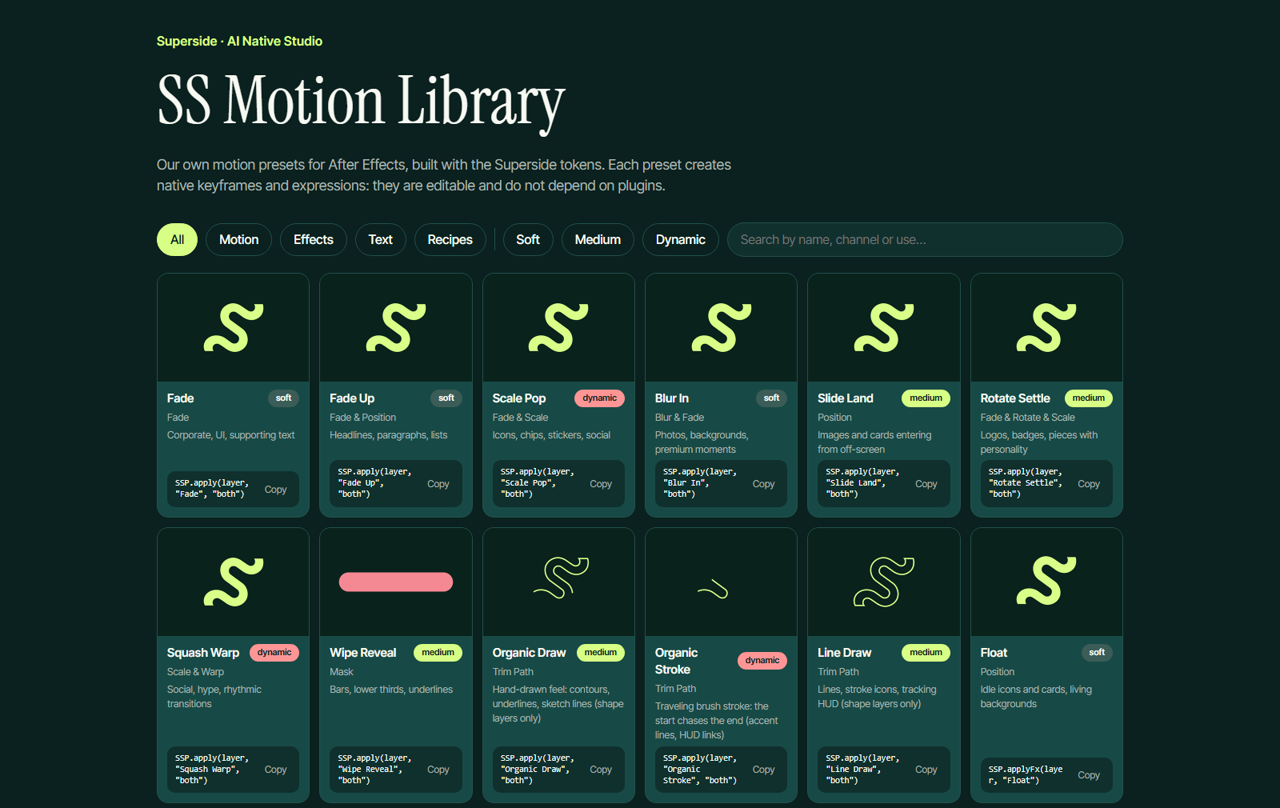
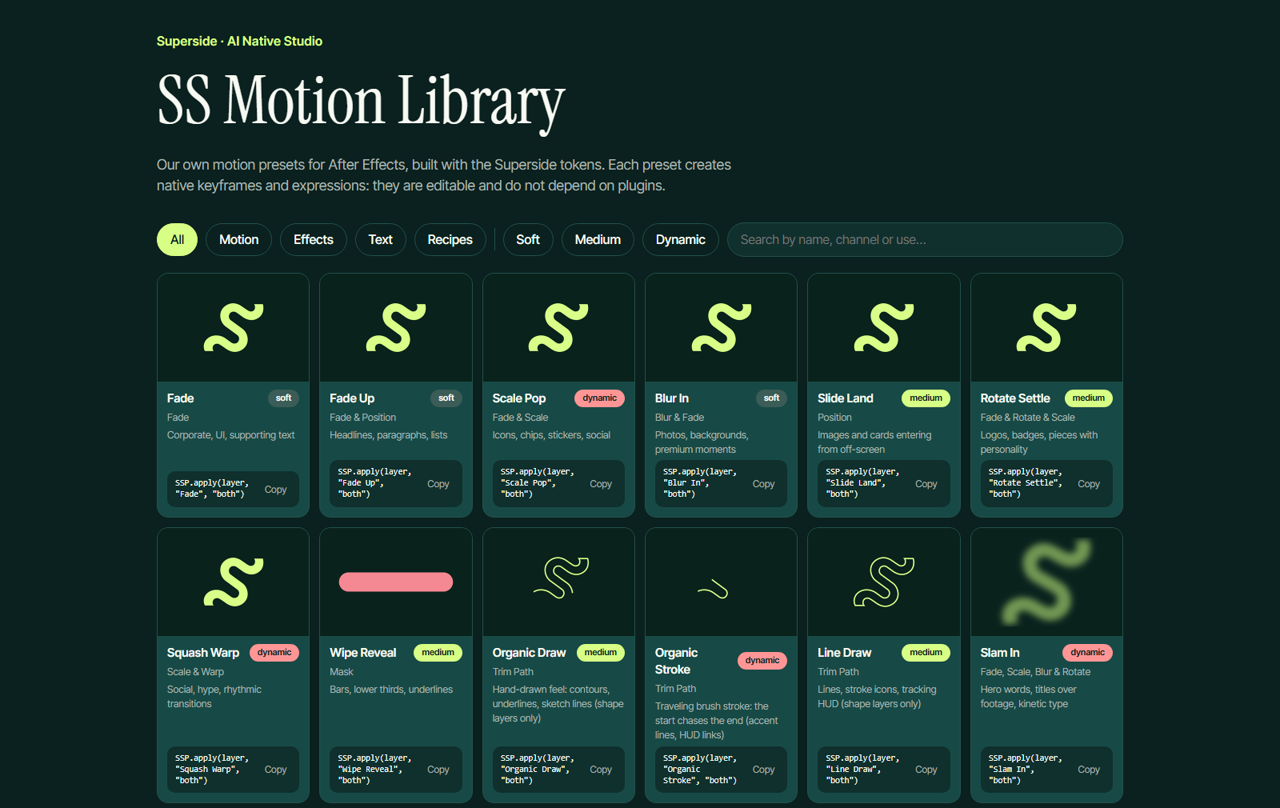
Add 5 presets from the Boardroom reel; library now at 34
- Motion: Slam In (kinetic hero entrance), Punch Zoom (camera punch for footage)
- Text: Words Slam (word-by-word slam with blur and tilt)
- Effects: Breathe (soft idle loop), Holo Flicker (glow, scanlines, flicker)
- Thumbnails, posters, library.json, INDEX.txt, visualizer and README catalog updated
- bridge.sh reopens AE normally when it was closed (AfterFX -s on a closed AE quits)

Changed region(s): [[0.75, 0.7735, 0.875, 0.9901], [0.7812, 0.6498, 0.875, 0.7735]]

diff --git a/library/index.html b/library/index.html
@@ -78,7 +78,7 @@ footer{margin-top:64px;color:var(--muted);font-size:13px}
   <footer>Generated by tools/build_library_html.py · tokens v<span id="tv"></span></footer>
 </div>
 <script>
-const DATA = {"presets": [{"name": "Fade", "slug": "fade", "kind": "motion", "channels": "Fade", "energy": "soft", "use": "Corporate, UI, supporting text", "gif": "gifs/motion/fade.gif", "call": "SSP.apply(layer, \"Fade\", \"both\")"}, {"name": "Fade Up", "slug": "fade-up", "kind": "motion", "channels": "Fade & Position", "energy": "soft", "use": "Headlines, paragraphs, lists", "gif": "gifs/motion/fade-up.gif", "call": "SSP.apply(layer, \"Fade Up\", \"both\")"}, {"name": "Scale Pop", "slug": "scale-pop", "kind": "motion", "channels": "Fade & Scale", "energy": "dynamic", "use": "Icons, chips, stickers, social", "gif": "gifs/motion/scale-pop.gif", "call": "SSP.apply(layer, \"Scale Pop\", \"both\")"}, {"name": "Blur In", "slug": "blur-in", "kind": "motion", "channels": "Blur & Fade", "energy": "soft", "use": "Photos, backgrounds, premium moments", "gif": "gifs/motion/blur-in.gif", "call": "SSP.apply(layer, \"Blur In\", \"both\")"}, {"name": "Slide Land", "slug": "slide-land", "kind": "motion", "channels": "Position", "energy": "medium", "use": "Images and cards entering from off-screen", "gif": "gifs/motion/slide-land.gif", "call": "SSP.apply(layer, \"Slide Land\", \"both\")"}, {"name": "Rotate Settle", "slug": "rotate-settle", "kind": "motion", "channels": "Fade & Rotate & Scale", "energy": "medium", "use": "Logos, badges, pieces with personality", "gif": "gifs/motion/rotate-settle.gif", "call": "SSP.apply(layer, \"Rotate Settle\", \"both\")"}, {"name": "Squash Warp", "slug": "squash-warp", "kind": "motion", "channels": "Scale & Warp", "energy": "dynamic", "use": "Social, hype, rhythmic transitions", "gif": "gifs/motion/squash-warp.gif", "call": "SSP.apply(layer, \"Squash Warp\", \"both\")"}, {"name": "Wipe Reveal", "slug": "wipe-reveal", "kind": "motion", "channels": "Mask", "energy": "medium", "use": "Bars, lower thirds, underlines", "gif": "gifs/motion/wipe-reveal.gif", "call": "SSP.apply(layer, \"Wipe Reveal\", \"both\")"}, {"name": "Organic Draw", "slug": "organic-draw", "kind": "motion", "channels": "Trim Path", "energy": "medium", "use": "Hand-drawn feel: contours, underlines, sketch lines (shape layers only)", "gif": "gifs/motion/organic-draw.gif", "call": "SSP.apply(layer, \"Organic Draw\", \"both\")"}, {"name": "Organic Stroke", "slug": "organic-stroke", "kind": "motion", "channels": "Trim Path", "energy": "dynamic", "use": "Traveling brush stroke: the start chases the end (accent lines, HUD links)", "gif": "gifs/motion/organic-stroke.gif", "call": "SSP.apply(layer, \"Organic Stroke\", \"both\")"}, {"name": "Line Draw", "slug": "line-draw", "kind": "motion", "channels": "Trim Path", "energy": "medium", "use": "Lines, stroke icons, tracking HUD (shape layers only)", "gif": "gifs/motion/line-draw.gif", "call": "SSP.apply(layer, \"Line Draw\", \"both\")"}, {"name": "Float", "slug": "float", "kind": "fx", "channels": "Position", "energy": "soft", "use": "Idle icons and cards, living backgrounds", "gif": "gifs/fx/float.gif", "call": "SSP.applyFx(layer, \"Float\")"}, {"name": "Wiggle Rotate", "slug": "wiggle-rotate", "kind": "fx", "channels": "Rotate", "energy": "medium", "use": "Stickers, illustrations with personality", "gif": "gifs/fx/wiggle-rotate.gif", "call": "SSP.applyFx(layer, \"Wiggle Rotate\")"}, {"name": "Pulse", "slug": "pulse", "kind": "fx", "channels": "Scale", "energy": "medium", "use": "CTAs, buttons, attention grabbers", "gif": "gifs/fx/pulse.gif", "call": "SSP.applyFx(layer, \"Pulse\")"}, {"name": "Jitter", "slug": "jitter", "kind": "fx", "channels": "Position & Rotate", "energy": "dynamic", "use": "Social, glitch, high-energy pieces", "gif": "gifs/fx/jitter.gif", "call": "SSP.applyFx(layer, \"Jitter\")"}, {"name": "Chars Rise", "slug": "chars-rise", "kind": "text", "channels": "Text · Position & Fade (char)", "energy": "medium", "use": "Short headlines, names, kickers", "gif": "gifs/text/chars-rise.gif", "call": "SSP.applyText(textLayer, \"Chars Rise\", \"both\")"}, {"name": "Words Fade Up", "slug": "words-fade-up", "kind": "text", "channels": "Text · Position & Fade (word)", "energy": "soft", "use": "Phrases, captions, quotes", "gif": "gifs/text/words-fade-up.gif", "call": "SSP.applyText(textLayer, \"Words Fade Up\", \"both\")"}, {"name": "Blur Words", "slug": "blur-words", "kind": "text", "channels": "Text · Blur & Fade (word)", "energy": "soft", "use": "Premium moments, calm intros", "gif": "gifs/text/blur-words.gif", "call": "SSP.applyText(textLayer, \"Blur Words\", \"both\")"}, {"name": "Tracking Settle", "slug": "tracking-settle", "kind": "text", "channels": "Text · Tracking & Fade", "energy": "medium", "use": "All-caps titles, typographic logos", "gif": "gifs/text/tracking-settle.gif", "call": "SSP.applyText(textLayer, \"Tracking Settle\", \"both\")"}, {"name": "Chars Pop", "slug": "chars-pop", "kind": "text", "channels": "Text · Scale (char)", "energy": "dynamic", "use": "Social, hype, big numbers", "gif": "gifs/text/chars-pop.gif", "call": "SSP.applyText(textLayer, \"Chars Pop\", \"both\")"}, {"name": "calibration__W3L", "slug": "calibration-w3l", "kind": "recipe", "id": "calibration__W3L", "channels": "position & rotation & scale (loop)", "energy": "dynamic", "use": "AC ref · CALIBRATION", "gif": "gifs/recipe/calibration-w3l.gif", "call": "SSP.applyRecipe(layer, \"calibration__W3L\", \"both\")"}, {"name": "calibration__4LC", "slug": "calibration-4lc", "kind": "recipe", "id": "calibration__4LC", "channels": "position & rotation", "energy": "dynamic", "use": "AC ref · CALIBRATION", "gif": "gifs/recipe/calibration-4lc.gif", "call": "SSP.applyRecipe(layer, \"calibration__4LC\", \"both\")"}, {"name": "calibration__D2T", "slug": "calibration-d2t", "kind": "recipe", "id": "calibration__D2T", "channels": "position (loop)", "energy": "dynamic", "use": "AC ref · CALIBRATION", "gif": "gifs/recipe/calibration-d2t.gif", "call": "SSP.applyRecipe(layer, \"calibration__D2T\", \"both\")"}, {"name": "calibration__2JK", "slug": "calibration-2jk", "kind": "recipe", "id": "calibration__2JK", "channels": "rotation (loop)", "energy": "medium", "use": "AC ref · CALIBRATION", "gif": "gifs/recipe/calibration-2jk.gif", "call": "SSP.applyRecipe(layer, \"calibration__2JK\", \"both\")"}, {"name": "calibration__1DF+UNU", "slug": "calibration-1df-unu", "kind": "recipe", "id": "calibration__1DF+UNU", "channels": "scale (loop)", "energy": "dynamic", "use": "AC ref · CALIBRATION", "gif": "gifs/recipe/calibration-1df-unu.gif", "call": "SSP.applyRecipe(layer, \"calibration__1DF+UNU\", \"both\")"}, {"name": "calibration__X9R", "slug": "calibration-x9r", "kind": "recipe", "id": "calibration__X9R", "channels": "opacity & scale", "energy": "medium", "use": "AC ref · CALIBRATION", "gif": "gifs/recipe/calibration-x9r.gif", "call": "SSP.applyRecipe(layer, \"calibration__X9R\", \"both\")"}, {"name": "calibration__PE6", "slug": "calibration-pe6", "kind": "recipe", "id": "calibration__PE6", "channels": "position", "energy": "medium", "use": "AC ref · CALIBRATION", "gif": "gifs/recipe/calibration-pe6.gif", "call": "SSP.applyRecipe(layer, \"calibration__PE6\", \"both\")"}, {"name": "calibration__4VW", "slug": "calibration-4vw", "kind": "recipe", "id": "calibration__4VW", "channels": "position & scale", "energy": "dynamic", "use": "AC ref · CALIBRATION", "gif": "gifs/recipe/calibration-4vw.gif", "call": "SSP.applyRecipe(layer, \"calibration__4VW\", \"both\")"}, {"name": "calibration__2JV", "slug": "calibration-2jv", "kind": "recipe", "id": "calibration__2JV", "channels": "scale", "energy": "dynamic", "use": "AC ref · CALIBRATION", "gif": "gifs/recipe/calibration-2jv.gif", "call": "SSP.applyRecipe(layer, \"calibration__2JV\", \"both\")"}], "tokens": {"version": "0.2-draft", "fps": 30, "notes": "Superside's own motion tokens. v0.2 calibrated against 6 real transitions sampled in AE (research/calibration_fit.json): entrances 12-17f, typical overshoot ~5%, exits with anticipation.", "durations": [{"name": "Tick", "frames": 4, "ms": 133, "use": "Micro-interactions: clicks, hovers, toggles"}, {"name": "Blink", "frames": 6, "ms": 200, "use": "Opacity fades in/out"}, {"name": "Glide", "frames": 9, "ms": 300, "use": "Short, efficient element moves"}, {"name": "Arrive", "frames": 14, "ms": 467, "use": "Element entrances, elements in motion"}, {"name": "Sweep", "frames": 21, "ms": 700, "use": "Changes covering half the screen or more"}, {"name": "Stage", "frames": 33, "ms": 1100, "use": "Full-screen moments, scrims, transitions"}], "easings": [{"name": "Flat", "bezier": [0, 0, 1, 1], "use": "Opacity and micro-interactions", "ae": {"out": "linear", "in": "linear"}}, {"name": "Land", "bezier": [0.12, 0.9, 0.28, 1], "use": "Entrances from off-screen (long, softer brake)", "ae": {"out": {"influence": 12, "speed_x_avg": 7.5}, "in": {"influence": 72, "speed_x_avg": 0}}}, {"name": "Launch", "bezier": [0.55, 0, 0.9, 0.6], "use": "Exits that chain into another element's entrance", "ae": {"out": {"influence": 55, "speed_x_avg": 0}, "in": {"influence": 10, "speed_x_avg": 4}}}, {"name": "Settle", "bezier": [0.3, 0, 0.1, 1], "use": "General motion and exits that don't chain", "ae": {"out": {"influence": 30, "speed_x_avg": 0}, "in": {"influence": 90, "speed_x_avg": 0}}}, {"name": "Cruise", "bezier": [0.5, 0, 0.15, 1], "use": "Generic, smooth A→B", "ae": {"out": {"influence": 50, "speed_x_avg": 0}, "in": {"influence": 85, "speed_x_avg": 0}}}, {"name": "Pop", "bezier": [0.34, 1.45, 0.64, 1], "use": "Entrances with overshoot/bounce for dynamic pieces", "ae": {"note": "3 keys: 0 → 105% → 100% (Land up to the peak at 60%, Settle back)"}, "overshoot": 0.05}, {"name": "Recoil", "bezier": [0.6, 0, 0.75, -0.4], "use": "Exits with anticipation: pulls back slightly, then leaves (dynamic pieces)", "ae": {"note": "Undershoot: 3 keys (100% → -4% of the travel → target) or an expression; does not fit in 2 AE keys"}}], "ae_conversion": "out.influence = x1*100; out.speed = (y1/x1)*avg; in.influence = (1-x2)*100; in.speed = ((1-y2)/(1-x2))*avg", "calibration": {"entrance_frames_range": [12, 17], "exit_frames_range": [13, 20], "typical_overshoot": 0.05, "observed_beziers": {"in_overshoot": [0.26, 1.42, 0.37, 0.98], "in_soft": [0.26, 0.95, 0.56, 0.99], "in_late": [0.4, 0.79, 0.74, 1.0], "out_ease_in": [0.45, 0.01, 0.75, 0.02], "out_anticipate": [0.62, 0.02, 0.74, -0.42]}}, "fonts": {"display": ["InstrumentSerif-Regular", "Georgia"], "ui": ["InterTight-SemiBold", "InterTight-Bold", "Arial-BoldMT"], "ui_regular": ["InterTight-Regular", "ArialMT"], "note": "PostScript names; the first installed one wins. Font files in assets/fonts (OFL)."}}};
+const DATA = {"presets": [{"name": "Fade", "slug": "fade", "kind": "motion", "channels": "Fade", "energy": "soft", "use": "Corporate, UI, supporting text", "gif": "gifs/motion/fade.gif", "call": "SSP.apply(layer, \"Fade\", \"both\")"}, {"name": "Fade Up", "slug": "fade-up", "kind": "motion", "channels": "Fade & Position", "energy": "soft", "use": "Headlines, paragraphs, lists", "gif": "gifs/motion/fade-up.gif", "call": "SSP.apply(layer, \"Fade Up\", \"both\")"}, {"name": "Scale Pop", "slug": "scale-pop", "kind": "motion", "channels": "Fade & Scale", "energy": "dynamic", "use": "Icons, chips, stickers, social", "gif": "gifs/motion/scale-pop.gif", "call": "SSP.apply(layer, \"Scale Pop\", \"both\")"}, {"name": "Blur In", "slug": "blur-in", "kind": "motion", "channels": "Blur & Fade", "energy": "soft", "use": "Photos, backgrounds, premium moments", "gif": "gifs/motion/blur-in.gif", "call": "SSP.apply(layer, \"Blur In\", \"both\")"}, {"name": "Slide Land", "slug": "slide-land", "kind": "motion", "channels": "Position", "energy": "medium", "use": "Images and cards entering from off-screen", "gif": "gifs/motion/slide-land.gif", "call": "SSP.apply(layer, \"Slide Land\", \"both\")"}, {"name": "Rotate Settle", "slug": "rotate-settle", "kind": "motion", "channels": "Fade & Rotate & Scale", "energy": "medium", "use": "Logos, badges, pieces with personality", "gif": "gifs/motion/rotate-settle.gif", "call": "SSP.apply(layer, \"Rotate Settle\", \"both\")"}, {"name": "Squash Warp", "slug": "squash-warp", "kind": "motion", "channels": "Scale & Warp", "energy": "dynamic", "use": "Social, hype, rhythmic transitions", "gif": "gifs/motion/squash-warp.gif", "call": "SSP.apply(layer, \"Squash Warp\", \"both\")"}, {"name": "Wipe Reveal", "slug": "wipe-reveal", "kind": "motion", "channels": "Mask", "energy": "medium", "use": "Bars, lower thirds, underlines", "gif": "gifs/motion/wipe-reveal.gif", "call": "SSP.apply(layer, \"Wipe Reveal\", \"both\")"}, {"name": "Organic Draw", "slug": "organic-draw", "kind": "motion", "channels": "Trim Path", "energy": "medium", "use": "Hand-drawn feel: contours, underlines, sketch lines (shape layers only)", "gif": "gifs/motion/organic-draw.gif", "call": "SSP.apply(layer, \"Organic Draw\", \"both\")"}, {"name": "Organic Stroke", "slug": "organic-stroke", "kind": "motion", "channels": "Trim Path", "energy": "dynamic", "use": "Traveling brush stroke: the start chases the end (accent lines, HUD links)", "gif": "gifs/motion/organic-stroke.gif", "call": "SSP.apply(layer, \"Organic Stroke\", \"both\")"}, {"name": "Line Draw", "slug": "line-draw", "kind": "motion", "channels": "Trim Path", "energy": "medium", "use": "Lines, stroke icons, tracking HUD (shape layers only)", "gif": "gifs/motion/line-draw.gif", "call": "SSP.apply(layer, \"Line Draw\", \"both\")"}, {"name": "Slam In", "slug": "slam-in", "kind": "motion", "channels": "Fade, Scale, Blur & Rotate", "energy": "dynamic", "use": "Hero words, titles over footage, kinetic type", "gif": "gifs/motion/slam-in.gif", "call": "SSP.apply(layer, \"Slam In\", \"both\")"}, {"name": "Punch Zoom", "slug": "punch-zoom", "kind": "motion", "channels": "Scale (camera)", "energy": "medium", "use": "Footage, precomps, freeze frames, cut emphasis", "gif": "gifs/motion/punch-zoom.gif", "call": "SSP.apply(layer, \"Punch Zoom\", \"both\")"}, {"name": "Float", "slug": "float", "kind": "fx", "channels": "Position", "energy": "soft", "use": "Idle icons and cards, living backgrounds", "gif": "gifs/fx/float.gif", "call": "SSP.applyFx(layer, \"Float\")"}, {"name": "Wiggle Rotate", "slug": "wiggle-rotate", "kind": "fx", "channels": "Rotate", "energy": "medium", "use": "Stickers, illustrations with personality", "gif": "gifs/fx/wiggle-rotate.gif", "call": "SSP.applyFx(layer, \"Wiggle Rotate\")"}, {"name": "Pulse", "slug": "pulse", "kind": "fx", "channels": "Scale", "energy": "medium", "use": "CTAs, buttons, attention grabbers", "gif": "gifs/fx/pulse.gif", "call": "SSP.applyFx(layer, \"Pulse\")"}, {"name": "Jitter", "slug": "jitter", "kind": "fx", "channels": "Position & Rotate", "energy": "dynamic", "use": "Social, glitch, high-energy pieces", "gif": "gifs/fx/jitter.gif", "call": "SSP.applyFx(layer, \"Jitter\")"}, {"name": "Breathe", "slug": "breathe", "kind": "fx", "channels": "Scale & Opacity", "energy": "soft", "use": "Ambient glows, background shapes, calm idle states", "gif": "gifs/fx/breathe.gif", "call": "SSP.applyFx(layer, \"Breathe\")"}, {"name": "Holo Flicker", "slug": "holo-flicker", "kind": "fx", "channels": "Opacity · Glow & Scanlines", "energy": "medium", "use": "HUD labels, tech overlays, holographic UI", "gif": "gifs/fx/holo-flicker.gif", "call": "SSP.applyFx(layer, \"Holo Flicker\")"}, {"name": "Chars Rise", "slug": "chars-rise", "kind": "text", "channels": "Text · Position & Fade (char)", "energy": "medium", "use": "Short headlines, names, kickers", "gif": "gifs/text/chars-rise.gif", "call": "SSP.applyText(textLayer, \"Chars Rise\", \"both\")"}, {"name": "Words Fade Up", "slug": "words-fade-up", "kind": "text", "channels": "Text · Position & Fade (word)", "energy": "soft", "use": "Phrases, captions, quotes", "gif": "gifs/text/words-fade-up.gif", "call": "SSP.applyText(textLayer, \"Words Fade Up\", \"both\")"}, {"name": "Blur Words", "slug": "blur-words", "kind": "text", "channels": "Text · Blur & Fade (word)", "energy": "soft", "use": "Premium moments, calm intros", "gif": "gifs/text/blur-words.gif", "call": "SSP.applyText(textLayer, \"Blur Words\", \"both\")"}, {"name": "Tracking Settle", "slug": "tracking-settle", "kind": "text", "channels": "Text · Tracking & Fade", "energy": "medium", "use": "All-caps titles, typographic logos", "gif": "gifs/text/tracking-settle.gif", "call": "SSP.applyText(textLayer, \"Tracking Settle\", \"both\")"}, {"name": "Chars Pop", "slug": "chars-pop", "kind": "text", "channels": "Text · Scale (char)", "energy": "dynamic", "use": "Social, hype, big numbers", "gif": "gifs/text/chars-pop.gif", "call": "SSP.applyText(textLayer, \"Chars Pop\", \"both\")"}, {"name": "Words Slam", "slug": "words-slam", "kind": "text", "channels": "Text · Scale, Blur & Rotate (word)", "energy": "dynamic", "use": "Punchy statements, social hooks, VO beats", "gif": "gifs/text/words-slam.gif", "call": "SSP.applyText(textLayer, \"Words Slam\", \"both\")"}, {"name": "calibration__W3L", "slug": "calibration-w3l", "kind": "recipe", "id": "calibration__W3L", "channels": "position & rotation & scale (loop)", "energy": "dynamic", "use": "AC ref · CALIBRATION", "gif": "gifs/recipe/calibration-w3l.gif", "call": "SSP.applyRecipe(layer, \"calibration__W3L\", \"both\")"}, {"name": "calibration__4LC", "slug": "calibration-4lc", "kind": "recipe", "id": "calibration__4LC", "channels": "position & rotation", "energy": "dynamic", "use": "AC ref · CALIBRATION", "gif": "gifs/recipe/calibration-4lc.gif", "call": "SSP.applyRecipe(layer, \"calibration__4LC\", \"both\")"}, {"name": "calibration__D2T", "slug": "calibration-d2t", "kind": "recipe", "id": "calibration__D2T", "channels": "position (loop)", "energy": "dynamic", "use": "AC ref · CALIBRATION", "gif": "gifs/recipe/calibration-d2t.gif", "call": "SSP.applyRecipe(layer, \"calibration__D2T\", \"both\")"}, {"name": "calibration__2JK", "slug": "calibration-2jk", "kind": "recipe", "id": "calibration__2JK", "channels": "rotation (loop)", "energy": "medium", "use": "AC ref · CALIBRATION", "gif": "gifs/recipe/calibration-2jk.gif", "call": "SSP.applyRecipe(layer, \"calibration__2JK\", \"both\")"}, {"name": "calibration__1DF+UNU", "slug": "calibration-1df-unu", "kind": "recipe", "id": "calibration__1DF+UNU", "channels": "scale (loop)", "energy": "dynamic", "use": "AC ref · CALIBRATION", "gif": "gifs/recipe/calibration-1df-unu.gif", "call": "SSP.applyRecipe(layer, \"calibration__1DF+UNU\", \"both\")"}, {"name": "calibration__X9R", "slug": "calibration-x9r", "kind": "recipe", "id": "calibration__X9R", "channels": "opacity & scale", "energy": "medium", "use": "AC ref · CALIBRATION", "gif": "gifs/recipe/calibration-x9r.gif", "call": "SSP.applyRecipe(layer, \"calibration__X9R\", \"both\")"}, {"name": "calibration__PE6", "slug": "calibration-pe6", "kind": "recipe", "id": "calibration__PE6", "channels": "position", "energy": "medium", "use": "AC ref · CALIBRATION", "gif": "gifs/recipe/calibration-pe6.gif", "call": "SSP.applyRecipe(layer, \"calibration__PE6\", \"both\")"}, {"name": "calibration__4VW", "slug": "calibration-4vw", "kind": "recipe", "id": "calibration__4VW", "channels": "position & scale", "energy": "dynamic", "use": "AC ref · CALIBRATION", "gif": "gifs/recipe/calibration-4vw.gif", "call": "SSP.applyRecipe(layer, \"calibration__4VW\", \"both\")"}, {"name": "calibration__2JV", "slug": "calibration-2jv", "kind": "recipe", "id": "calibration__2JV", "channels": "scale", "energy": "dynamic", "use": "AC ref · CALIBRATION", "gif": "gifs/recipe/calibration-2jv.gif", "call": "SSP.applyRecipe(layer, \"calibration__2JV\", \"both\")"}], "tokens": {"version": "0.2-draft", "fps": 30, "notes": "Superside's own motion tokens. v0.2 calibrated against 6 real transitions sampled in AE (research/calibration_fit.json): entrances 12-17f, typical overshoot ~5%, exits with anticipation.", "durations": [{"name": "Tick", "frames": 4, "ms": 133, "use": "Micro-interactions: clicks, hovers, toggles"}, {"name": "Blink", "frames": 6, "ms": 200, "use": "Opacity fades in/out"}, {"name": "Glide", "frames": 9, "ms": 300, "use": "Short, efficient element moves"}, {"name": "Arrive", "frames": 14, "ms": 467, "use": "Element entrances, elements in motion"}, {"name": "Sweep", "frames": 21, "ms": 700, "use": "Changes covering half the screen or more"}, {"name": "Stage", "frames": 33, "ms": 1100, "use": "Full-screen moments, scrims, transitions"}], "easings": [{"name": "Flat", "bezier": [0, 0, 1, 1], "use": "Opacity and micro-interactions", "ae": {"out": "linear", "in": "linear"}}, {"name": "Land", "bezier": [0.12, 0.9, 0.28, 1], "use": "Entrances from off-screen (long, softer brake)", "ae": {"out": {"influence": 12, "speed_x_avg": 7.5}, "in": {"influence": 72, "speed_x_avg": 0}}}, {"name": "Launch", "bezier": [0.55, 0, 0.9, 0.6], "use": "Exits that chain into another element's entrance", "ae": {"out": {"influence": 55, "speed_x_avg": 0}, "in": {"influence": 10, "speed_x_avg": 4}}}, {"name": "Settle", "bezier": [0.3, 0, 0.1, 1], "use": "General motion and exits that don't chain", "ae": {"out": {"influence": 30, "speed_x_avg": 0}, "in": {"influence": 90, "speed_x_avg": 0}}}, {"name": "Cruise", "bezier": [0.5, 0, 0.15, 1], "use": "Generic, smooth A→B", "ae": {"out": {"influence": 50, "speed_x_avg": 0}, "in": {"influence": 85, "speed_x_avg": 0}}}, {"name": "Pop", "bezier": [0.34, 1.45, 0.64, 1], "use": "Entrances with overshoot/bounce for dynamic pieces", "ae": {"note": "3 keys: 0 → 105% → 100% (Land up to the peak at 60%, Settle back)"}, "overshoot": 0.05}, {"name": "Recoil", "bezier": [0.6, 0, 0.75, -0.4], "use": "Exits with anticipation: pulls back slightly, then leaves (dynamic pieces)", "ae": {"note": "Undershoot: 3 keys (100% → -4% of the travel → target) or an expression; does not fit in 2 AE keys"}}], "ae_conversion": "out.influence = x1*100; out.speed = (y1/x1)*avg; in.influence = (1-x2)*100; in.speed = ((1-y2)/(1-x2))*avg", "calibration": {"entrance_frames_range": [12, 17], "exit_frames_range": [13, 20], "typical_overshoot": 0.05, "observed_beziers": {"in_overshoot": [0.26, 1.42, 0.37, 0.98], "in_soft": [0.26, 0.95, 0.56, 0.99], "in_late": [0.4, 0.79, 0.74, 1.0], "out_ease_in": [0.45, 0.01, 0.75, 0.02], "out_anticipate": [0.62, 0.02, 0.74, -0.42]}}, "fonts": {"display": ["InstrumentSerif-Regular", "Georgia"], "ui": ["InterTight-SemiBold", "InterTight-Bold", "Arial-BoldMT"], "ui_regular": ["InterTight-Regular", "ArialMT"], "note": "PostScript names; the first installed one wins. Font files in assets/fonts (OFL)."}}};
 const QS = new URLSearchParams(location.search);
 const POSTER = QS.get("poster") === "1";   // static mid-animation frames (for screenshots / video capture)
 const state = { kind: QS.get("kind") || "all", energy: QS.get("energy"), q: "" };

diff --git a/tools/ss_presets.jsx b/tools/ss_presets.jsx
@@ -155,6 +155,27 @@ var SSP = (function () {
             channels: "Trim Path", energy: "medium", use: "Lines, stroke icons, tracking HUD (shape layers only)",
             "in": function (L, t) { var p = trimEnd(L); return p ? SSM.animate(p, t, 0, 100, "Sweep", "Cruise") : t; },
             "out": function (L, t) { var p = trimEnd(L); return p ? SSM.animate(p, t, 100, 0, "Arrive", "Launch") : t; }
+        },
+        // From the Boardroom freeze titles: lands big, blurred and tilted, overshoots and settles; shrinks away.
+        "Slam In": {
+            channels: "Fade, Scale, Blur & Rotate", energy: "dynamic", use: "Hero words, titles over footage, kinetic type",
+            "in": function (L, t) {
+                SSM.animate(T(L, "ADBE Opacity"), t, 0, opa(L), "Tick", "Flat");
+                SSM.animate(blur(L), t, 40, 0, "Glide", "Land");
+                SSM.animate(T(L, "ADBE Rotate Z"), t, rot(L) - 7.5, rot(L), "Arrive", "Settle");
+                return SSM.animate(T(L, "ADBE Scale"), t, mul(scl(L), 1.65), scl(L), "Arrive", "Pop");
+            },
+            "out": function (L, t) {
+                SSM.animate(T(L, "ADBE Opacity"), t, opa(L), 0, "Blink", "Flat");
+                SSM.animate(blur(L), t, 0, 20, "Blink", "Launch");
+                return SSM.animate(T(L, "ADBE Scale"), t, scl(L), mul(scl(L), 0.86), "Blink", "Launch");
+            }
+        },
+        // Camera-style punch on footage or precomps: starts pushed in and eases back to frame (out: pushes in).
+        "Punch Zoom": {
+            channels: "Scale (camera)", energy: "medium", use: "Footage, precomps, freeze frames, cut emphasis",
+            "in": function (L, t) { return SSM.animate(T(L, "ADBE Scale"), t, mul(scl(L), 1.08), scl(L), "Glide", "Land"); },
+            "out": function (L, t) { return SSM.animate(T(L, "ADBE Scale"), t, scl(L), mul(scl(L), 1.08), "Glide", "Launch"); }
         }
     };
 
@@ -195,6 +216,26 @@ var SSP = (function () {
                 var a = slider(L, "SS Jitter · Amplitude px", 8), f = slider(L, "SS Jitter · Frames per jump", 2);
                 T(L, "ADBE Position").expression = "var n=" + f + "; var t=Math.floor(timeToFrames(time)/n)*n; seedRandom(t,true); value + random([-1,-1],[1,1])*" + a + ";";
                 T(L, "ADBE Rotate Z").expression = "var n=" + f + "; var t=Math.floor(timeToFrames(time)/n)*n; seedRandom(t+7,true); value + random(-2,2);";
+            }
+        },
+        "Breathe": {
+            channels: "Scale & Opacity", energy: "soft", use: "Ambient glows, background shapes, calm idle states",
+            build: function (L) {
+                var a = slider(L, "SS Breathe · Scale %", 3), f = slider(L, "SS Breathe · Frequency Hz", 0.35);
+                T(L, "ADBE Scale").expression = "var k = 1 + (Math.sin(time*" + f + "*Math.PI*2)*0.5+0.5)*" + a + "/100; [value[0]*k, value[1]*k];";
+                T(L, "ADBE Opacity").expression = "value * (0.85 + 0.15*(Math.sin(time*" + f + "*Math.PI*2)*0.5+0.5));";
+            }
+        },
+        // From the Boardroom HUD: soft glow, scanlines and an occasional flicker frame.
+        "Holo Flicker": {
+            channels: "Opacity · Glow & Scanlines", energy: "medium", use: "HUD labels, tech overlays, holographic UI",
+            build: function (L) {
+                var r = slider(L, "SS Holo · Flicker chance %", 4);
+                var g = effect(L, "ADBE Glo2", "SS Holo Glow");
+                g.property("ADBE Glo2-0002").setValue(70); g.property("ADBE Glo2-0003").setValue(22); g.property("ADBE Glo2-0004").setValue(0.25);   // low intensity: additive glow turns light colors white
+                var v = effect(L, "ADBE Venetian Blinds", "SS Holo Scanlines");
+                v.property("ADBE Venetian Blinds-0001").setValue(18); v.property("ADBE Venetian Blinds-0002").setValue(90); v.property("ADBE Venetian Blinds-0003").setValue(4);
+                T(L, "ADBE Opacity").expression = "seedRandom(Math.floor(time*24), true); value * (random() < " + r + "/100 ? 0.55 : 1);";
             }
         }
     };
@@ -271,6 +312,18 @@ var SSP = (function () {
                 a.props.addProperty("ADBE Text Scale 3D").setValue([0, 0, 100]);
                 a.props.addProperty("ADBE Text Opacity").setValue(0);
                 return SSM.animate(a.start, t, a.from, 100, "Sweep", "Land");
+            }
+        },
+        // Kinetic type: each word lands big, blurred and slightly tilted, one after another.
+        "Words Slam": {
+            channels: "Text · Scale, Blur & Rotate (word)", energy: "dynamic", use: "Punchy statements, social hooks, VO beats",
+            "in": function (L, t) {
+                var a = textAnimator(L, "SS Words Slam", 3, 2);
+                a.props.addProperty("ADBE Text Scale 3D").setValue([170, 170, 100]);
+                a.props.addProperty("ADBE Text Blur").setValue([30, 30]);
+                a.props.addProperty("ADBE Text Rotation").setValue(-8);
+                a.props.addProperty("ADBE Text Opacity").setValue(0);
+                return SSM.animate(a.start, t, a.from, 100, "Stage", "Land");
             }
         }
     };

diff --git a/README.md b/README.md
@@ -8,10 +8,12 @@ Superside's own motion library for After Effects. Designers apply it from a pane
 
 ## What's inside
 
-<!-- catalog:start -->
-**29 presets** in 4 categories. Every one is also listed in `library/INDEX.txt` (for LLMs) and `library/index.html` (for people).
+> **Latest additions:** `Slam In`, `Punch Zoom`, `Words Slam`, `Breathe` and `Holo Flicker`, promoted to presets from what we built for *The 1974 Boardroom* reel (see the end of this page). Every piece we make should leave something new in the library.
 
-### Motion (11)
+<!-- catalog:start -->
+**34 presets** in 4 categories. Every one is also listed in `library/INDEX.txt` (for LLMs) and `library/index.html` (for people).
+
+### Motion (13)
 
 Entrances and exits for any layer. `SSP.apply(layer, name, "in" | "out" | "both")`
 
@@ -19,24 +21,26 @@ Entrances and exits for any layer. `SSP.apply(layer, name, "in" | "out" | "both"
 |---|---|---|---|
 | <img src="library/gifs/motion/fade.gif" width="200"><br>**Fade** · `soft`<br><sub>Corporate, UI, supporting text</sub> | <img src="library/gifs/motion/fade-up.gif" width="200"><br>**Fade Up** · `soft`<br><sub>Headlines, paragraphs, lists</sub> | <img src="library/gifs/motion/scale-pop.gif" width="200"><br>**Scale Pop** · `dynamic`<br><sub>Icons, chips, stickers, social</sub> | <img src="library/gifs/motion/blur-in.gif" width="200"><br>**Blur In** · `soft`<br><sub>Photos, backgrounds, premium moments</sub> |
 | <img src="library/gifs/motion/slide-land.gif" width="200"><br>**Slide Land** · `medium`<br><sub>Images and cards entering from off-screen</sub> | <img src="library/gifs/motion/rotate-settle.gif" width="200"><br>**Rotate Settle** · `medium`<br><sub>Logos, badges, pieces with personality</sub> | <img src="library/gifs/motion/squash-warp.gif" width="200"><br>**Squash Warp** · `dynamic`<br><sub>Social, hype, rhythmic transitions</sub> | <img src="library/gifs/motion/wipe-reveal.gif" width="200"><br>**Wipe Reveal** · `medium`<br><sub>Bars, lower thirds, underlines</sub> |
-| <img src="library/gifs/motion/organic-draw.gif" width="200"><br>**Organic Draw** · `medium`<br><sub>Hand-drawn feel: contours, underlines, sketch lines (shape layers only)</sub> | <img src="library/gifs/motion/organic-stroke.gif" width="200"><br>**Organic Stroke** · `dynamic`<br><sub>Traveling brush stroke: the start chases the end (accent lines, HUD links)</sub> | <img src="library/gifs/motion/line-draw.gif" width="200"><br>**Line Draw** · `medium`<br><sub>Lines, stroke icons, tracking HUD (shape layers only)</sub> |   |
+| <img src="library/gifs/motion/organic-draw.gif" width="200"><br>**Organic Draw** · `medium`<br><sub>Hand-drawn feel: contours, underlines, sketch lines (shape layers only)</sub> | <img src="library/gifs/motion/organic-stroke.gif" width="200"><br>**Organic Stroke** · `dynamic`<br><sub>Traveling brush stroke: the start chases the end (accent lines, HUD links)</sub> | <img src="library/gifs/motion/line-draw.gif" width="200"><br>**Line Draw** · `medium`<br><sub>Lines, stroke icons, tracking HUD (shape layers only)</sub> | <img src="library/gifs/motion/slam-in.gif" width="200"><br>**Slam In** · `dynamic`<br><sub>Hero words, titles over footage, kinetic type</sub> |
+| <img src="library/gifs/motion/punch-zoom.gif" width="200"><br>**Punch Zoom** · `medium`<br><sub>Footage, precomps, freeze frames, cut emphasis</sub> |   |   |   |
 
-### Text (5)
+### Text (6)
 
 Per character or per word, on text layers. `SSP.applyText(layer, name, "in" | "out" | "both")`
 
 |   |   |   |   |
 |---|---|---|---|
 | <img src="library/gifs/text/chars-rise.gif" width="200"><br>**Chars Rise** · `medium`<br><sub>Short headlines, names, kickers</sub> | <img src="library/gifs/text/words-fade-up.gif" width="200"><br>**Words Fade Up** · `soft`<br><sub>Phrases, captions, quotes</sub> | <img src="library/gifs/text/blur-words.gif" width="200"><br>**Blur Words** · `soft`<br><sub>Premium moments, calm intros</sub> | <img src="library/gifs/text/tracking-settle.gif" width="200"><br>**Tracking Settle** · `medium`<br><sub>All-caps titles, typographic logos</sub> |
-| <img src="library/gifs/text/chars-pop.gif" width="200"><br>**Chars Pop** · `dynamic`<br><sub>Social, hype, big numbers</sub> |   |   |   |
+| <img src="library/gifs/text/chars-pop.gif" width="200"><br>**Chars Pop** · `dynamic`<br><sub>Social, hype, big numbers</sub> | <img src="library/gifs/text/words-slam.gif" width="200"><br>**Words Slam** · `dynamic`<br><sub>Punchy statements, social hooks, VO beats</sub> |   |   |
 
-### Effects (4)
+### Effects (6)
 
 Continuous loops driven by expressions. `SSP.applyFx(layer, name)`
 
 |   |   |   |   |
 |---|---|---|---|
 | <img src="library/gifs/fx/float.gif" width="200"><br>**Float** · `soft`<br><sub>Idle icons and cards, living backgrounds</sub> | <img src="library/gifs/fx/wiggle-rotate.gif" width="200"><br>**Wiggle Rotate** · `medium`<br><sub>Stickers, illustrations with personality</sub> | <img src="library/gifs/fx/pulse.gif" width="200"><br>**Pulse** · `medium`<br><sub>CTAs, buttons, attention grabbers</sub> | <img src="library/gifs/fx/jitter.gif" width="200"><br>**Jitter** · `dynamic`<br><sub>Social, glitch, high-energy pieces</sub> |
+| <img src="library/gifs/fx/breathe.gif" width="200"><br>**Breathe** · `soft`<br><sub>Ambient glows, background shapes, calm idle states</sub> | <img src="library/gifs/fx/holo-flicker.gif" width="200"><br>**Holo Flicker** · `medium`<br><sub>HUD labels, tech overlays, holographic UI</sub> |   |   |
 
 ### Recipes (9)
 
@@ -55,9 +59,9 @@ Every preset has an **energy** level, so you can choose by the tone of the piece
 
 | Energy | Use it for | Examples |
 |---|---|---|
-| `soft` | Corporate, UI, premium, calm | Fade, Blur In, Words Fade Up, Float |
-| `medium` | Most brand work | Slide Land, Organic Draw, Chars Rise, Pulse |
-| `dynamic` | Social, hype, launches | Scale Pop, Squash Warp, Jitter, Chars Pop |
+| `soft` | Corporate, UI, premium, calm | Fade, Blur In, Words Fade Up, Float, Breathe |
+| `medium` | Most brand work | Slide Land, Organic Draw, Punch Zoom, Chars Rise, Pulse, Holo Flicker |
+| `dynamic` | Social, hype, launches | Scale Pop, Slam In, Squash Warp, Words Slam, Chars Pop, Jitter |
 
 ![Filtering the library by energy](docs/screens/visualizer-dynamic.png)
 

diff --git a/docs/LEARNINGS.md b/docs/LEARNINGS.md
@@ -36,6 +36,7 @@ Everything we learned building SS Motion and *The 1974 Boardroom* test, written 
 - Rebuilding a comp (remove + recreate) silently deletes its layers from every comp that nested it (e.g. the breakdown grid lost its composite cell). Rebuild dependents in the same run: `build_scene.jsx` now rebuilds the breakdown.
 - Quick QA without a full render: `comp.saveFrameToPng(time, file)` from a bridge job writes stills in seconds (asynchronously: wait for the files).
 - Screenshots of ScriptUI windows: open the palette from a job with `#targetengine` (otherwise it closes when the job ends), then `PrintWindow` from a **DPI-aware** process (`SetProcessDPIAware`), or the capture is cropped on scaled displays.
+- If AE closes or crashes, the bridge marker (`bridge/outbox/_bridge_started.txt`) goes stale and jobs wait forever. Launching a closed AE with `AfterFX.exe -s "..."` runs the script and then quits; open AE normally with the project first, then attach the bridge. `tools/bridge.sh` now does this on its own (`SS_AE_PROJECT` overrides the project).
 - AE shows "Not Responding" during a scripted render queue run; check that the output file keeps growing before assuming a hang.
 
 ## 2. Animation Composer as a behavioral reference
